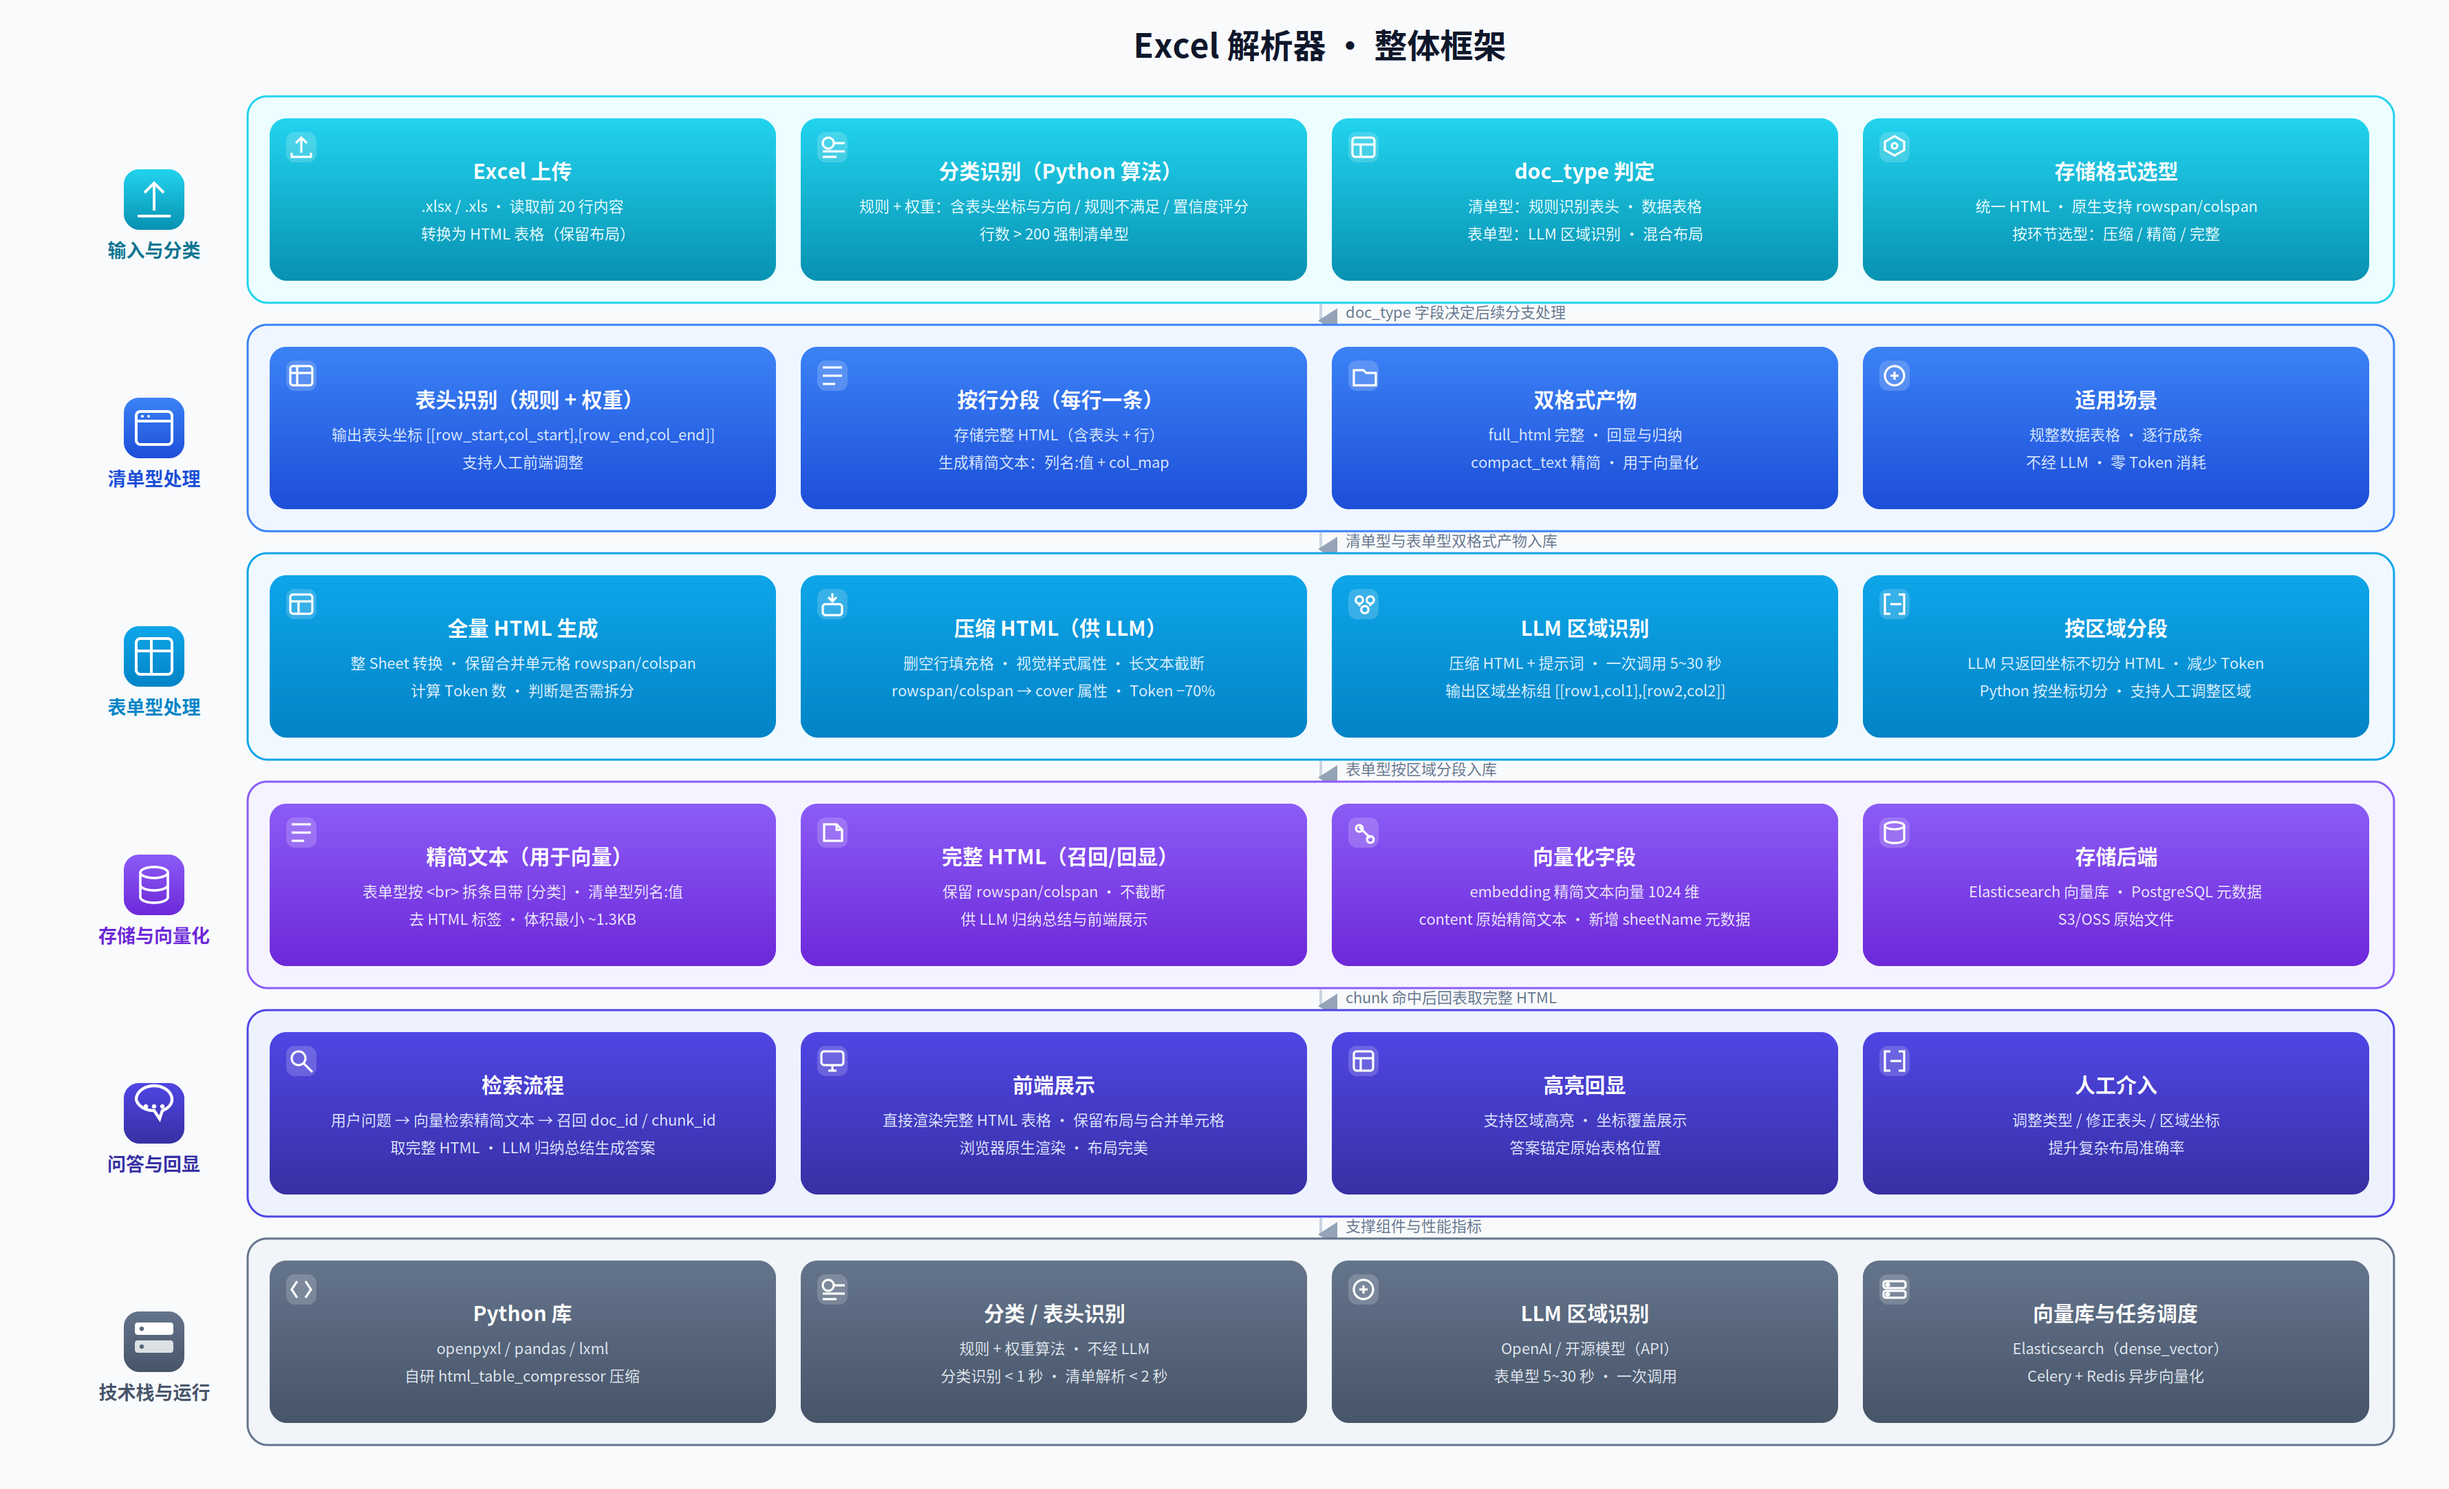
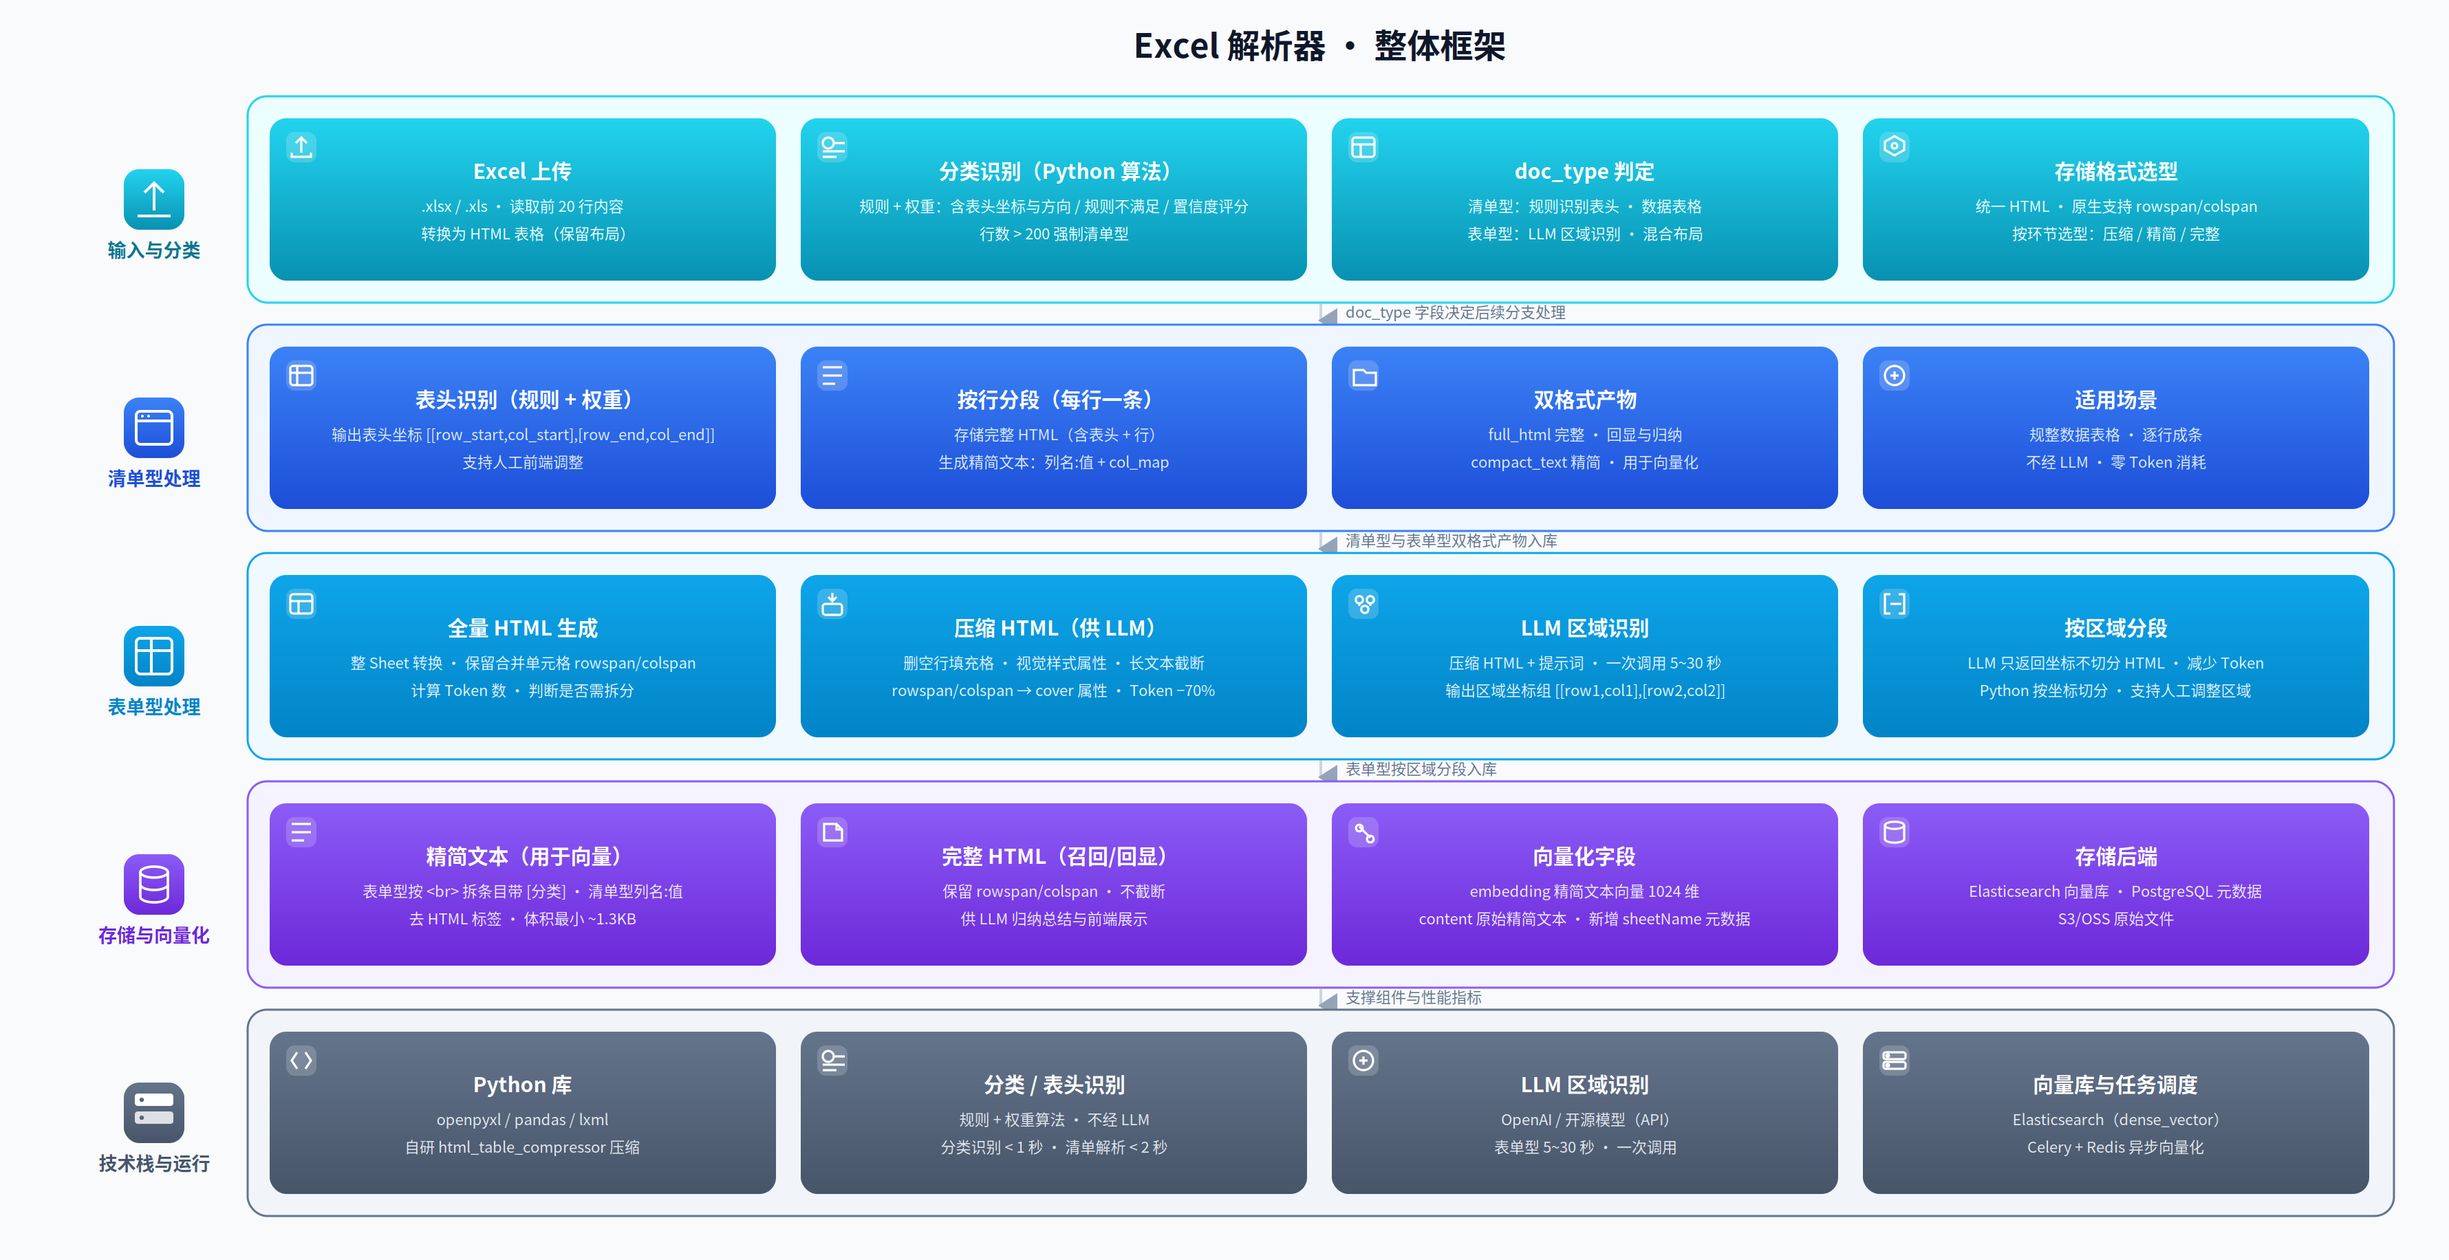
docs: Excel 解析器框架图按反馈去除问答与回显层

diff --git a/docs/worklog.md b/docs/worklog.md
@@ -1564,3 +1564,8 @@
 
 - 按「IKC 生态架构图统一存储至 open-ikc/docs/images」规范，将相邻仓库 `/home/sharkyai/PyUploadX/docs/PyUploadX分层系统框架_v1.0.svg/png` 复制一份到 docs/images/ 做生态级统一归档（cp -p 保留时间戳）；PyUploadX 仓库自身作为独立交付物保留原件不动，避免破坏其仓内文档引用。复制后 XML 校验 OK。
 - 仅新增配图副本，无代码改动，跳过 pytest 与 Claude 只读审查。
+
+### 任务：Excel 解析器框架图去除「问答与回显」层（2026-10-19 续）
+
+- 按用户要求就地修改 docs/images/Excel解析器整体框架_v1.0.svg：整带删除 BAND 5 智能问答与前端回显（徽章/层名/带底/检索流程·前端展示·高亮回显·人工介入四卡），末带「技术栈与运行」整体上移 166px 补位为第 5 带；层间箭头删至 4 条（末条 719→731 保留）、旁注「chunk 命中后回表」删除、「支撑组件与性能指标」移至 y=729；defs 清理未再使用的 gIndigo；viewBox 与背景高 1082→916。grep 确认 问答与回显/gIndigo/检索流程/高亮回显 零残留。
+- 验证：XML OK；cairosvg 2x 重渲染同名 PNG（3560×1832），目检五带排布紧凑、徽章与卡片无位移错位、无残留空白区。仅配图改动，跳过 pytest 与 Claude 只读审查。
